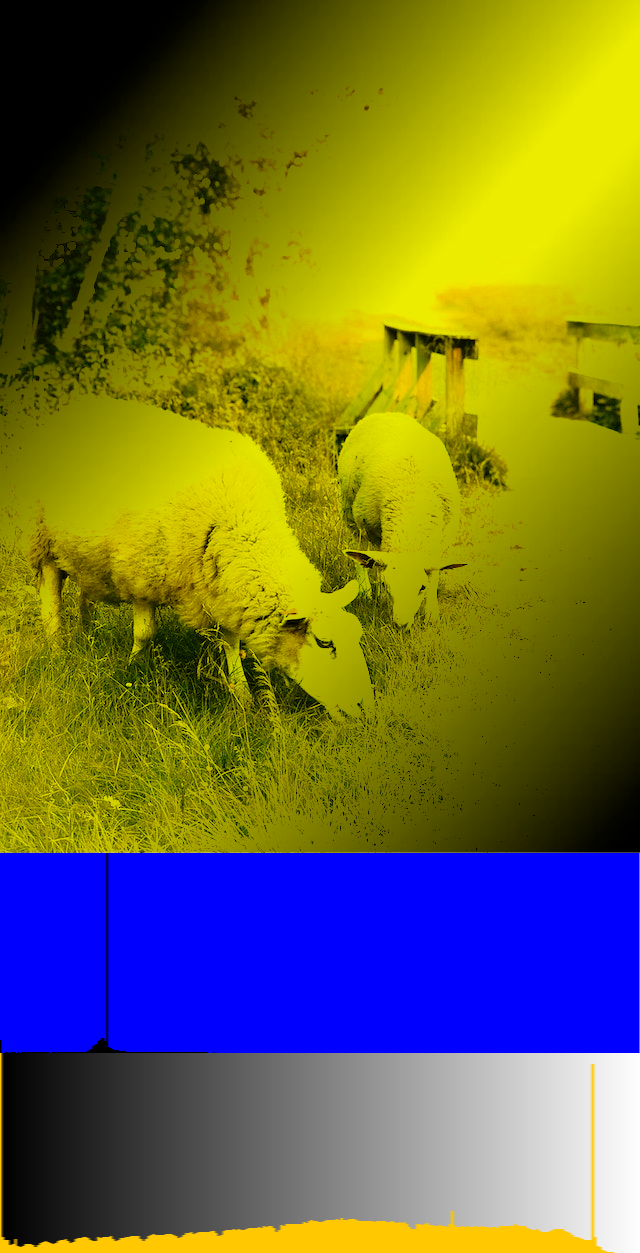
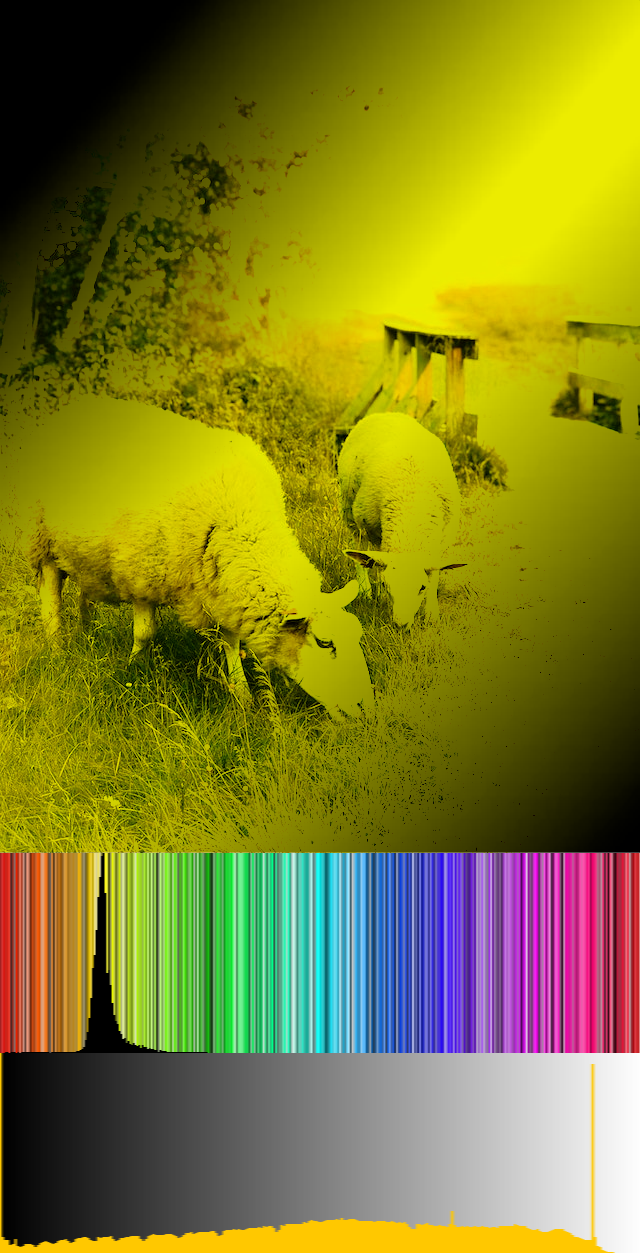
Add files via upload

Changed region(s): [[0.0, 0.6536, 1.0, 0.8404]]

diff --git a/IP.java b/IP.java
@@ -1090,8 +1090,9 @@ public class IP {
                 Color original = new Color(bufferedImage.getRGB(x, y));
 
                 float[] hsv = Main.rgbTohsv(original.getRed(), original.getGreen(), original.getBlue());
-
-                histogram[(int) hsv[0]]++;
+                if(original.getRed() != original.getGreen() && original.getRed() != original.getBlue() && original.getGreen() != original.getBlue()){
+                    histogram[(int) hsv[0]]++;
+                }
 
             }
         }
@@ -1129,7 +1130,7 @@ public class IP {
                 g.setColor(color2);
             }
             else{
-                g.setColor(Color.BLUE);
+                g.setColor(Color.WHITE);
             }
             g.fillRect(i, 0, 1, (int) ((1 - histogram[i]) * height));
         }
@@ -1142,6 +1143,113 @@ public class IP {
 
         return this;
     }
+
+    public IP toHistogramHueNullZero(boolean alter) {
+        var bw = bufferedImage.getWidth();
+        var bh = bufferedImage.getHeight();
+
+        int height = 200;
+        var intermediate = new BufferedImage(360, height, BufferedImage.TYPE_INT_ARGB);
+
+        float[] histogram = new float[361];
+        for (var i = 0; i < 361; i++) {
+            histogram[0] = 0;
+        }
+
+        for (var y = 0; y < bh; y++) {
+            for (var x = 0; x < bw; x++) {
+
+                Color original = new Color(bufferedImage.getRGB(x, y));
+
+                float[] hsv = Main.rgbTohsv(original.getRed(), original.getGreen(), original.getBlue());
+
+                histogram[(int) hsv[0]]++;
+
+            }
+        }
+
+        // Normalize
+        float max = 0;
+        for (int i = 0; i < 361; i++) {
+            if (histogram[i] > max && i != 0) {
+                max = histogram[i];
+            }
+            if(histogram[i] >= 20000){
+                // System.out.println(i + ": " + histogram[i]);
+            }
+        }
+
+        for (int i = 0; i < 361; i++) {
+            histogram[i] /= max;
+            if (i == 0 && histogram[0] >= max){
+                histogram[i] = max;
+                histogram[i] /= max;
+            }
+            else if(i == 0){
+                histogram[i] /= max;
+            }
+
+        }
+
+        Graphics g = intermediate.getGraphics();
+
+        g.setColor(Color.BLACK);
+        g.fillRect(0, 0, 360, height);
+        float[] hsv = new float[3];
+        for (int i = 0; i < 361; i++) {
+            if(alter == true){
+                hsv[0] = i%360;
+                hsv[1] = 200;
+                hsv[2] = 200;
+                float[] rgb = Main.hsvToRgb(hsv[0], hsv[1], hsv[2]);
+                Color color2 = new Color(((int)rgb[0]), ((int)rgb[1]), ((int)rgb[2]));
+                g.setColor(color2);
+            }
+            else{
+                g.setColor(Color.WHITE);
+            }
+            g.fillRect(i, 0, 1, (int) ((1 - histogram[i]) * height));
+        }
+
+        g.dispose();
+
+        // intermediate.setRGB(x, y, new Color((int) rgb[0], (int) rgb[1], (int)
+        // rgb[2]).getRGB());
+        bufferedImage = intermediate;
+
+        return this;
+    }
+
+    public IP bitSlice(int i){
+        updatePixels(c ->{
+            int r = c.getRed();
+            int r2 = r & i;
+            r2 *= 255/(float)i;
+
+            int g = c.getGreen();
+            int g2 = g & i;
+            g2 *= 255/(float)i;
+
+            int b = c.getBlue();
+            int b2 = b & i;
+            b2 *= 255/(float)i;
+            return new Color(r2, g2, b2);            
+        });
+        return this;
+    }
+
+    public IP updatePixels(IColorToColor lambda) {
+        for (int y = 0; y < bufferedImage.getHeight(); y++) {
+          for (int x = 0; x < bufferedImage.getWidth(); x++) {
+    
+            Color color = new Color(bufferedImage.getRGB(x, y));
+            Color newColor = lambda.toColor(color);
+    
+            bufferedImage.setRGB(x, y, newColor.getRGB());
+          }
+        }
+        return new IP(this);
+      }
 
     public boolean isValidCoordinate(int x, int y){
         return x >= 0 && y >= 0 && x < bufferedImage.getWidth() && y < bufferedImage.getHeight();

diff --git a/Main.java b/Main.java
@@ -9,42 +9,50 @@ import java.util.concurrent.atomic.AtomicInteger;
 public class Main {
     public static void main(String[] args) {
         // new IP("download.jpg").onlyHighHue().save("downloadHighHue.png");
-        AtomicInteger width = new AtomicInteger(-1);
-        AtomicInteger height = new AtomicInteger(-1);
+        // AtomicInteger width = new AtomicInteger(-1);
+        // AtomicInteger height = new AtomicInteger(-1);
 
         new ICon("sheep.jpg")
-        .setAsWidth(width)
-        .setAsHeight(height)
-        .addLayer("./Images/gradient.jpg")
-        .setLayerAlpha(1f)
-        .exec(l -> l.removeBlue())
-        .setLayerBlendmode(BlendMode.Darken)
-        .exec(ip -> ip.scaleLinear(width.get() / 255.0f, height.get() / 255.0f / 1.175f))
-        // .setBackgroundColor(Color.MAGENTA)
-        .save("sheepBlueDarken.png"); 
-        
-        new IP("sheepBlueDarken.png").toHistogramHue(false).save("sheepBlueDarkenHistogramHue.png");
-        new IP("sheepBlueDarken.png").toHistogramValue(true).save("sheepBlueDarkenHistogramValue.png");
-        
-        new ICon("sheepBlueDarkenHistogramHue.png")
-        .setAsWidth(width)
-        .setAsHeight(height)
-        .addToCanvasSize(0, 200)
-        .addLayer("sheepBlueDarkenHistogramValue.png")
-        .moveLayer(0, height.get())
-        .exec(ip -> ip.scaleLinear(width.get() / 255.0f, 1))
-        .setBackgroundColor(Color.WHITE)
-        .save("sheepBlueDarkenHistogram.png"); 
+        .exec(i->i.bitSlice(0b11000000))
+        .save("sheepBitSlicing.png");
 
-        new ICon("sheepBlueDarken.png")
-        .setAsWidth(width)
-        .setAsHeight(height)
-        .addToCanvasSize(0, 400)
-        .addLayer("sheepBlueDarkenHistogram.png")
-        .selectLayer(1)
-        .moveLayer(0, height.get())
-        .exec(ip -> ip.scaleLinear(width.get() / 360.0f, 1))
-        .save("sheepBlueDarkenHistogram2.png"); 
+        // new ICon("sheep.jpg")
+        // .setAsWidth(width)
+        // .setAsHeight(height)
+        // .addLayer("./Images/gradient.jpg")
+        // .setLayerAlpha(1f)
+        // .exec(l -> l.removeBlue())
+        // .setLayerBlendmode(BlendMode.Darken)
+        // .exec(ip -> ip.scaleLinear(width.get() / 255.0f, height.get() / 255.0f / 1.175f))
+        // .save("sheepBlueDarken.png"); 
+        
+        // new IP("sheep.jpg").toHistogramHue(true).save("sheepHistogramHue.png");
+        // new IP("sheep.jpg").toHistogramHueNullZero(true).save("sheepHistogramHueNullZero.png");
+        // new IP("download.jpg").toHistogramHue(true).save("downloadHistogramHue.png");
+        // new IP("download.jpg").toHistogramHueNullZero(true).save("downloadHistogramHue.png");
+        // new IP("sheepBlueDarken.png").toHistogramHue(true).save("sheepBlueDarkenHistogramHue.png");
+        // new IP("sheepBlueDarken.png").toHistogramHue(true).save("sheepBlueDarkenHistogramHueNullZero.png");
+        // new IP("sheepBlueDarken.png").toHistogramValue(true).save("sheepBlueDarkenHistogramValue.png");
+        
+        // new ICon("sheepBlueDarkenHistogramHue.png")
+        // .setAsWidth(width)
+        // .setAsHeight(height)
+        // .addToCanvasSize(0, 200)
+        // .addLayer("sheepBlueDarkenHistogramValue.png")
+        // .moveLayer(0, height.get())
+        // .exec(ip -> ip.scaleLinear(width.get() / 255.0f, 1))
+        // .setBackgroundColor(Color.WHITE)
+        // .save("sheepBlueDarkenHistogram.png"); 
+
+        // new ICon("sheepBlueDarken.png")
+        // .setAsWidth(width)
+        // .setAsHeight(height)
+        // .addToCanvasSize(0, 400)
+        // .addLayer("sheepBlueDarkenHistogram.png")
+        // .selectLayer(1)
+        // .moveLayer(0, height.get())
+        // .exec(ip -> ip.scaleLinear(width.get() / 360.0f, 1))
+        // .save("sheepBlueDarkenHistogram2.png"); 
 }
 
     public static float interpolate(float one, float two, float percent){
